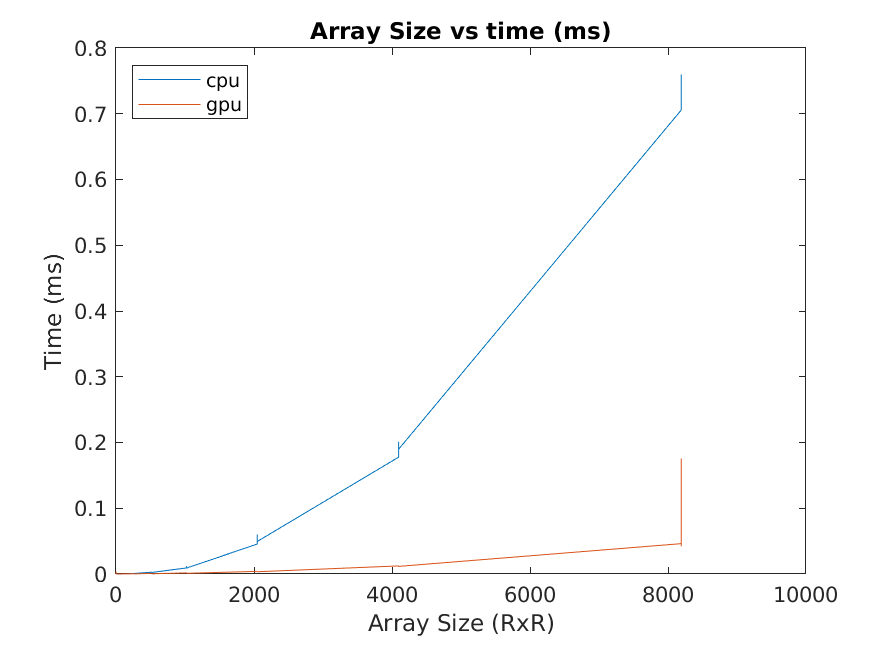
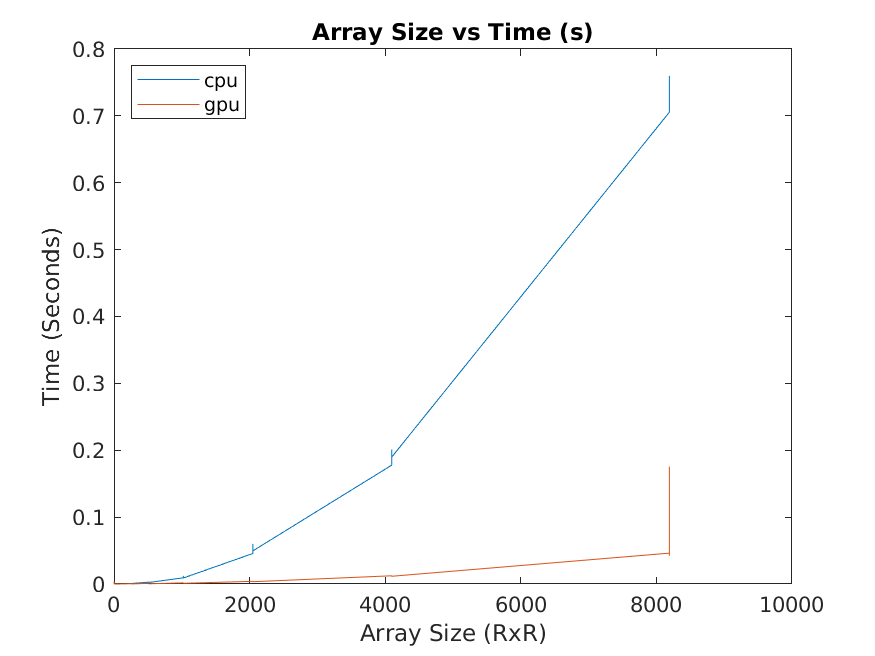
time is in seconds not ms

diff --git a/gpu_test/gpu_test.m b/gpu_test/gpu_test.m
@@ -33,8 +33,8 @@ end
 %%
 figure()
 fig = plot(times(4,:),times(1,:),times(4,:),times(2,:));
-title('Array Size vs time (ms)');
+title('Array Size vs Time (s)');
 xlabel('Array Size (RxR)');
-ylabel('Time (ms)');
+ylabel('Time (Seconds)');
 legend({'cpu', 'gpu'}, 'Location', 'northwest');
 saveas(gcf, 'size_vs_time.png');
